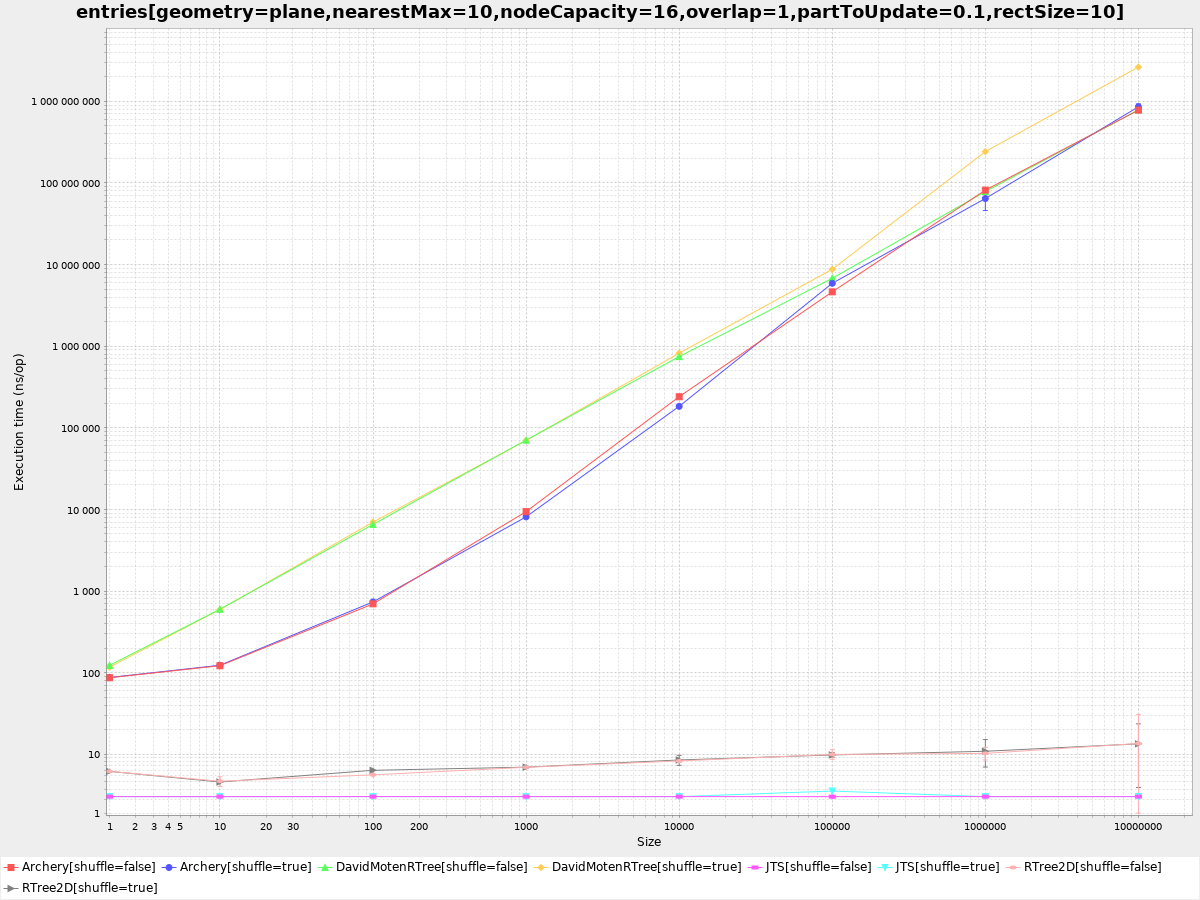
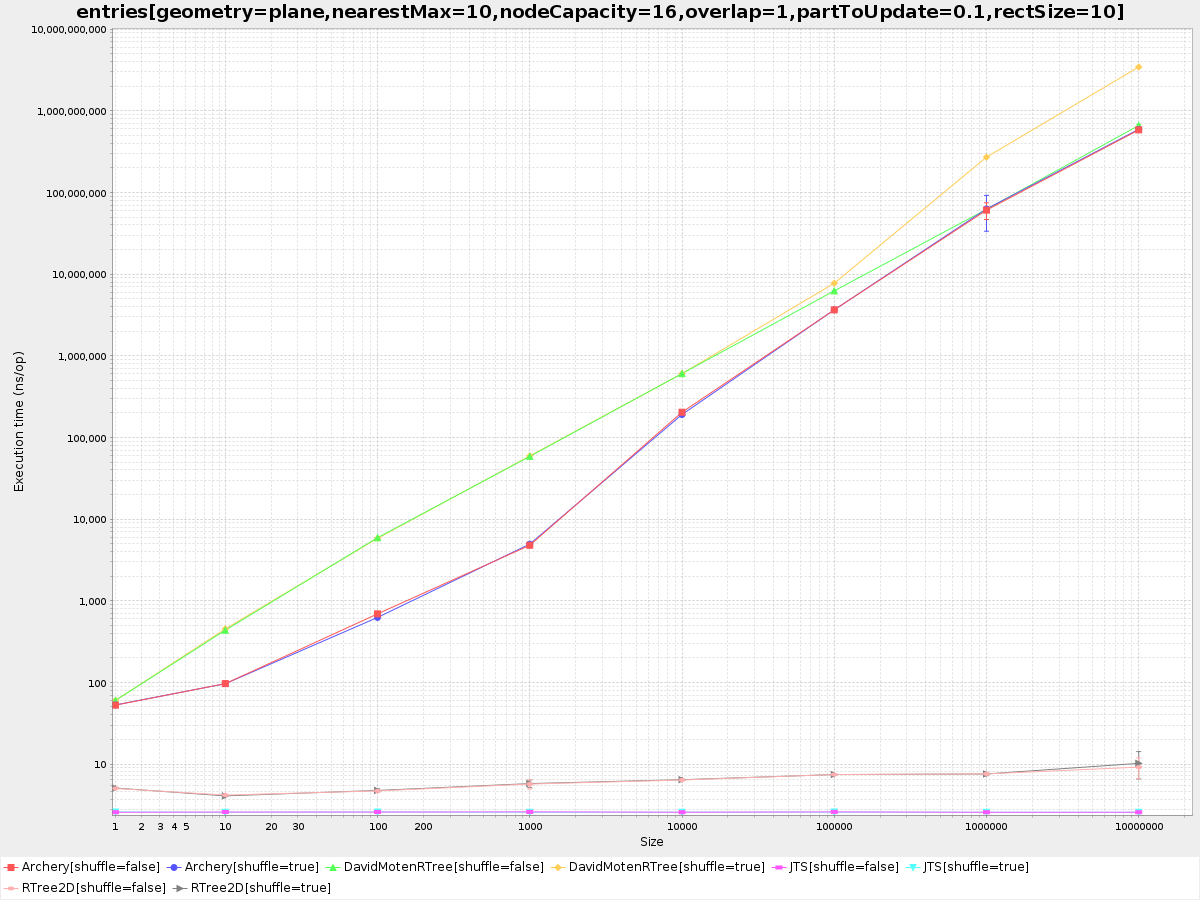
Update benchmark results

diff --git a/README.md b/README.md
@@ -97,8 +97,8 @@ for other functions which allows filtering or accumulating found entries without
 
 Charts below are latest results of benchmarks which compare RTree2D with [Archery](https://github.com/non/archery),
 [David Monten's rtree](https://github.com/davidmoten/rtree), and [JTS](https://github.com/locationtech/jts) libraries 
-on the following environment: Intel® Core™ i7-7700 CPU @ 3.6GHz (max 4.2GHz), RAM 16Gb DDR4-2400, Ubuntu 18.04, 
-Oracle JDK 11.
+on the following environment: Intel® Core™ i9-11900H CPU @ 2.5GHz (max 4.9GHz), RAM 32Gb DDR4-3200, Ubuntu 22.04, 
+Oracle JDK 17.
 
 Main metric tested by benchmarks is an execution time in nanoseconds. So lesser values are better. Please, check out 
 the Run benchmarks section bellow how to test other metrics like allocations in bytes or number of some CPU events.     
@@ -167,7 +167,7 @@ Feel free to modify benchmarks and check how it works with your data, JDK, and S
 To see throughput with allocation rate run benchmarks with GC profiler using the following command:
 
 ```sh
-sbt -java-home /usr/lib/jvm/jdk1.8.0 clean 'rtree2d-benchmark/jmh:run -prof gc -rf json -rff rtries.json .*'
+sbt -java-home /usr/lib/jvm/zulu-17 clean 'rtree2d-benchmark/jmh:run -prof gc -rf json -rff rtries.json .*'
 ```
 
 It will save benchmark report in `rtree2d-benchmark/rtries.json` file.
@@ -183,7 +183,7 @@ series to separated images. Here is an example how it can be called for specifie
 parameter, and patterns of benchmark names:
 
 ```sh
-sbt -java-home /usr/lib/jvm/jdk1.8.0 clean 'charts -jvm /usr/lib/jvm/jdk-11/bin/java -p overlap=1 -p rectSize=10 -p nearestMax=10 -p nodeCapacity=16 -p partToUpdate=0.1 -p geometry=plane .*'
+sbt -java-home /usr/lib/jvm/zulu-17 clean 'charts -p overlap=1 -p rectSize=10 -p nearestMax=10 -p nodeCapacity=16 -p partToUpdate=0.1 -p geometry=plane .*'
 ```
 
 Results will be places in a cross-build suffixed subdirectory of the `benchmark/target` directory in `*.png` files
@@ -200,7 +200,7 @@ For testing of RTree2D with `spherical` geometry and different node capacities u
 will be placed in the same directory as above):
 
 ```sh
-sbt -java-home /usr/lib/jvm/jdk1.8.0 clean 'charts -jvm /usr/lib/jvm/jdk-11/bin/java -p overlap=1 -p rectSize=10 -p nearestMax=10 -p nodeCapacity=4,8,16 -p partToUpdate=0.1 -p geometry=spherical RTree2D.*'
+sbt -java-home /usr/lib/jvm/zulu-17 clean 'charts -p overlap=1 -p rectSize=10 -p nearestMax=10 -p nodeCapacity=4,8,16 -p partToUpdate=0.1 -p geometry=spherical RTree2D.*'
 ```
 
 ### Publish locally
